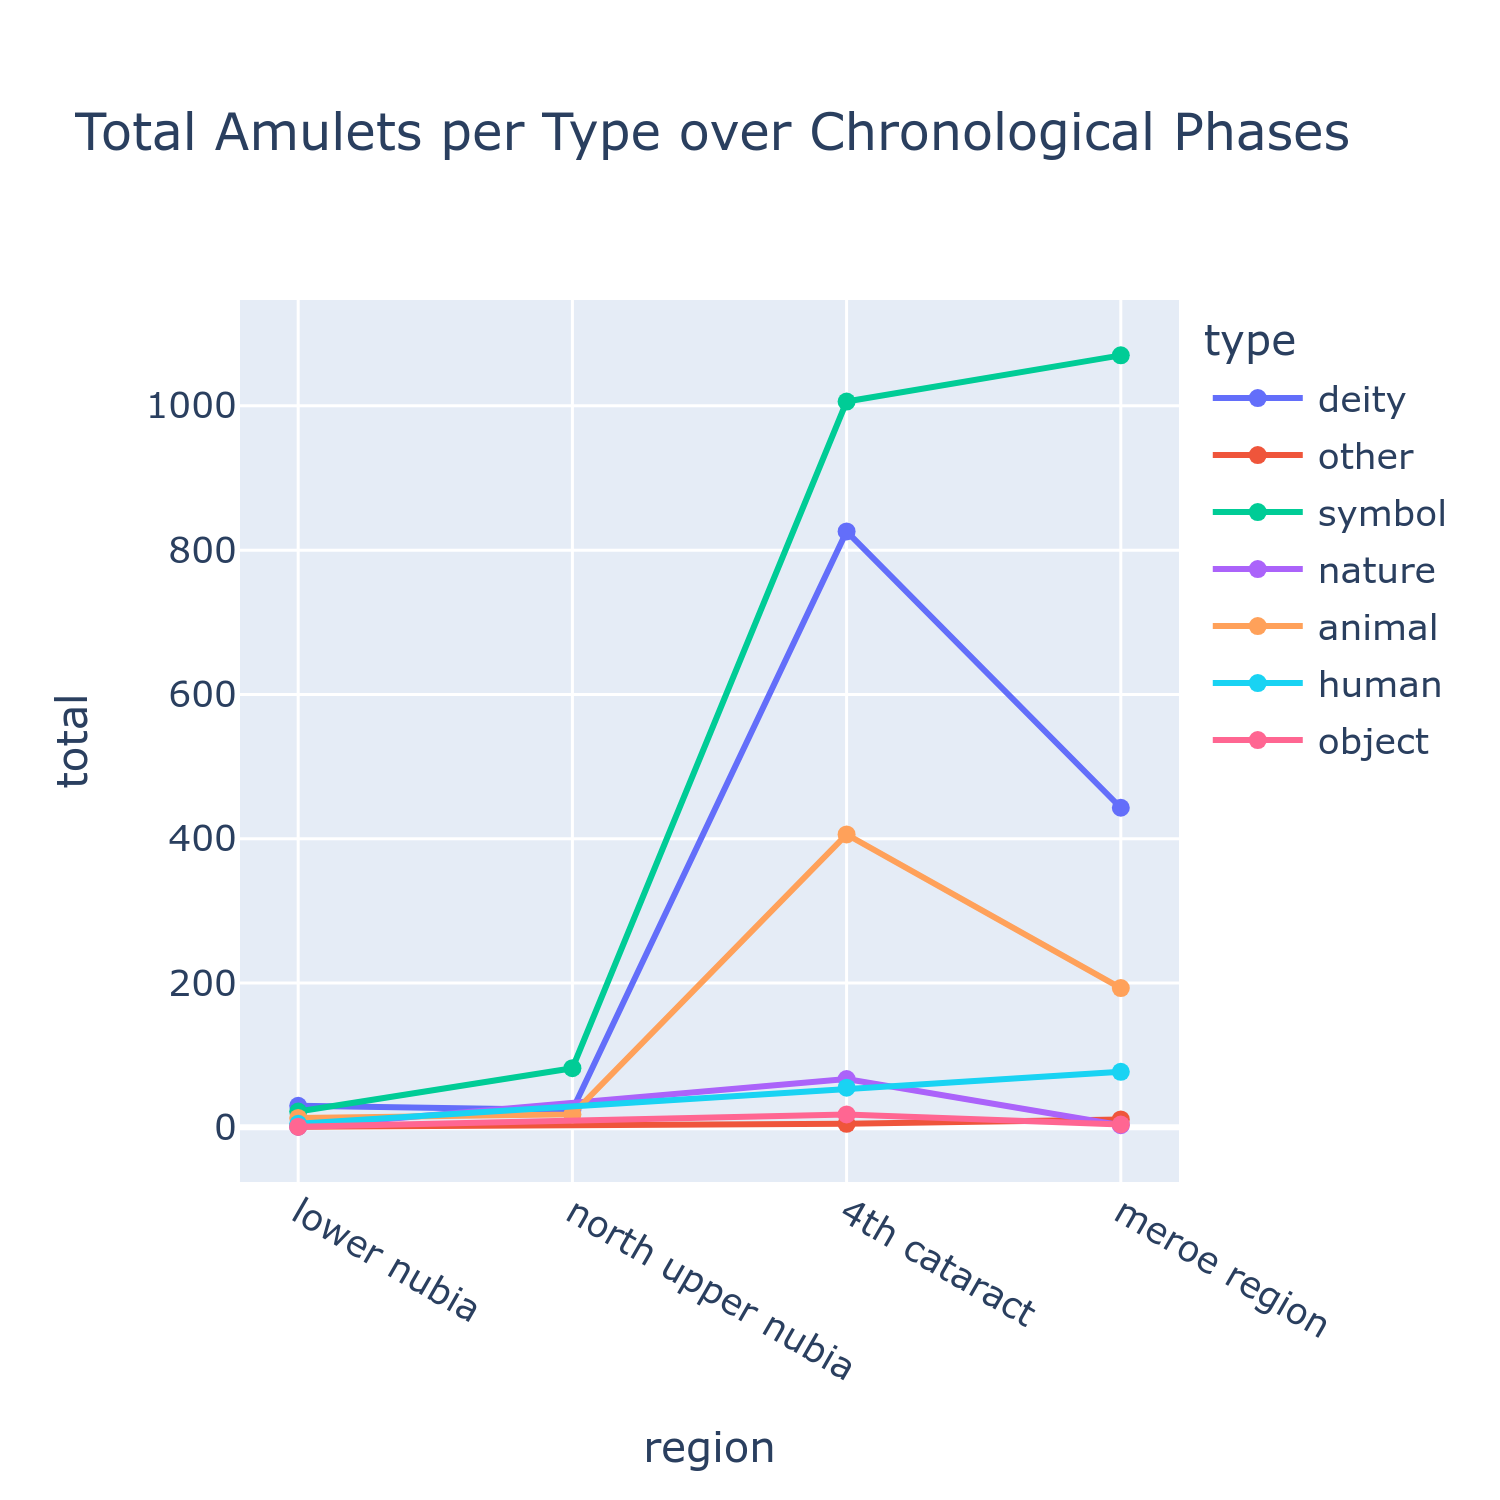
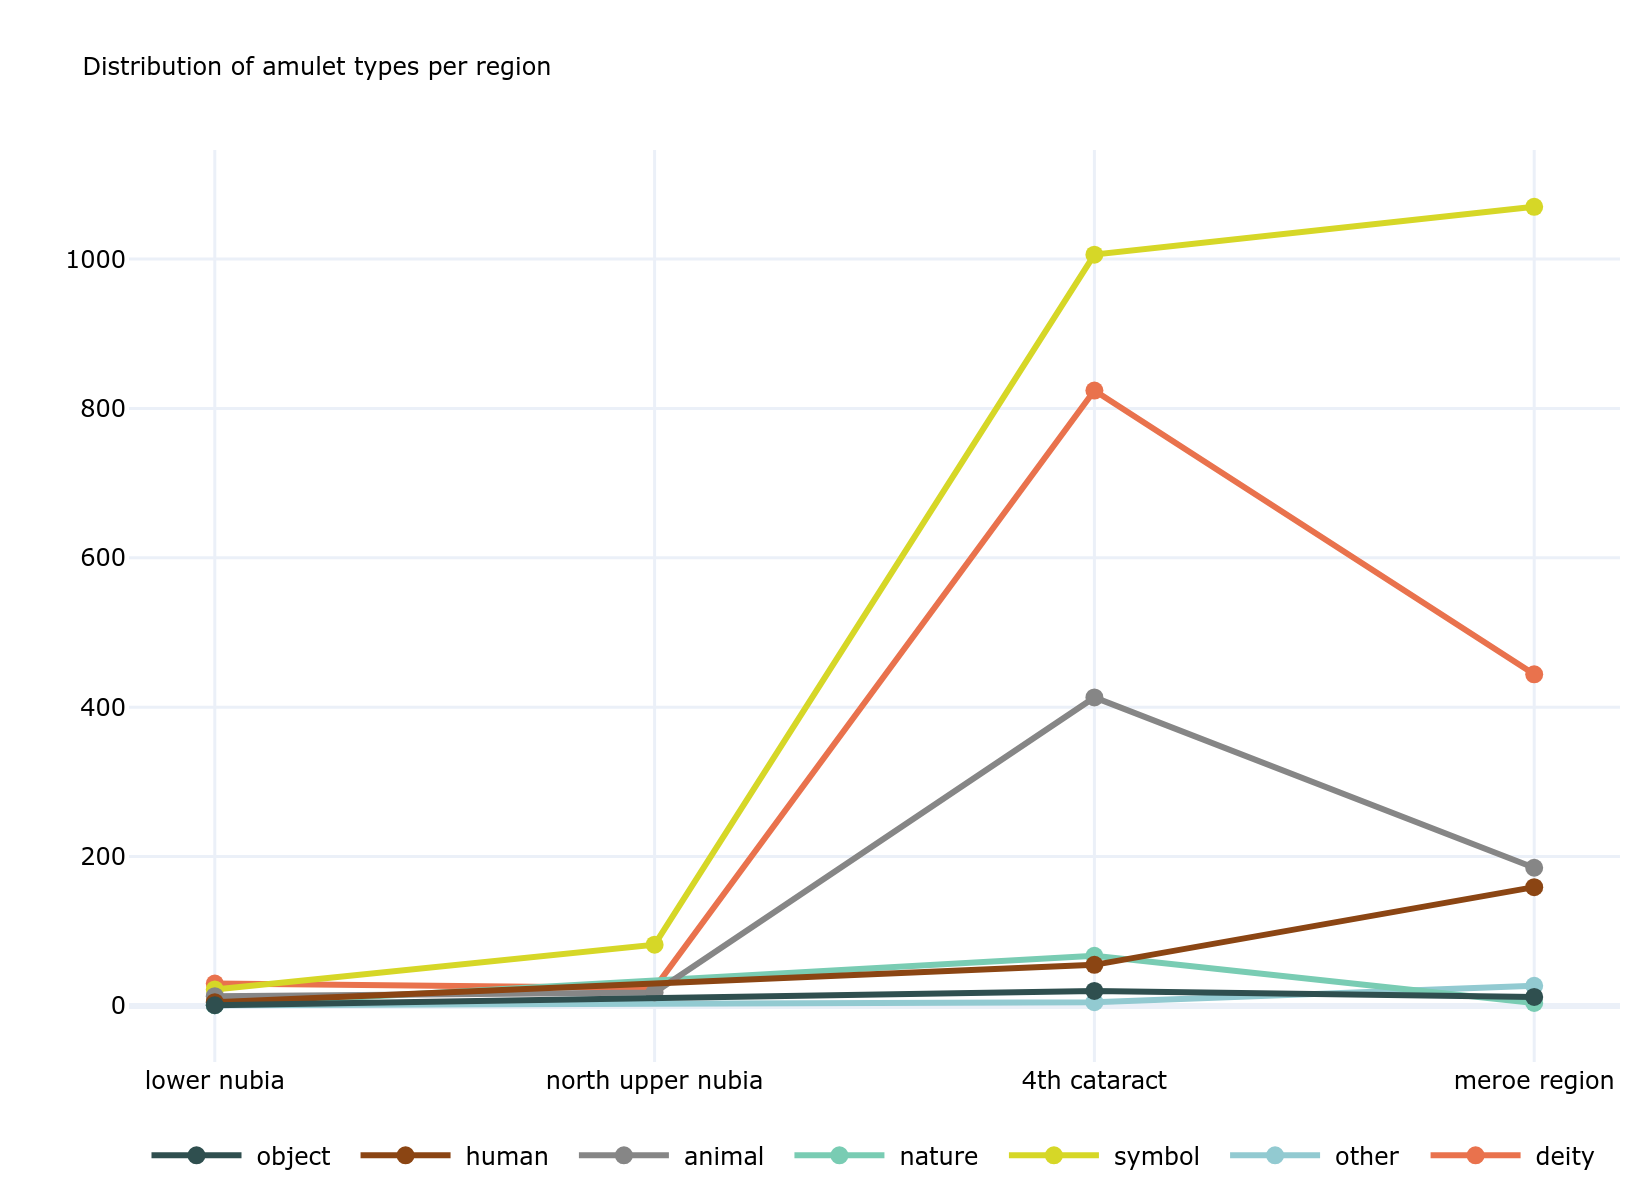
add regional queries

diff --git a/chapter5/region_avg.py b/chapter5/region_avg.py
@@ -7,18 +7,25 @@ import plotly.graph_objects as go
 engine = create_engine('mysql+pymysql://victoria:amulets123@localhost:3306/phd_v5')
 
 query = """
-select 
+SELECT 
     region,
-    type,
-    count(amulet_id) as total
-from burials b
-join amulets a on a.burial_id = b.burial_id
-join sites s on s.site_id = b.site_id
-where dating = 'napatan' and b.site_id in (4,5,6,7,8,9,10) and social_group = 'non-elite'
-group by 1,2
+    temp,
+    COUNT(DISTINCT b.burial_id) as tomb_count,
+    COUNT(amulet_id) as total_amulets,
+    ROUND(COUNT(amulet_id) * 1.0 / COUNT(DISTINCT b.burial_id), 0) as avg_amulets_per_tomb
+FROM burials b
+JOIN amulets a ON a.burial_id = b.burial_id
+JOIN sites s ON s.site_id = b.site_id
+WHERE dating = 'napatan' 
+    AND b.site_id IN (4,5,6,7,8,9,10) 
+    AND social_group = 'non-elite'
+GROUP BY 1,2
 """
 
 df = pd.read_sql(query, engine)
+
+custom_colors = ['#C0C0C0']
+
 
 region_order = ["lower nubia", "north upper nubia", "4th cataract", "meroe region"]
 
@@ -26,26 +33,23 @@ df['region'] = pd.Categorical(df['region'], categories=region_order, ordered=Tru
 
 df = df.sort_values('region')
 
-custom_colors = ['#e9724d', '#92cad1', '#d6d727', '#79ccb3', '#868686',
-                 '#8b4513', '#2f4f4f', '#ff6b4a', '#20b2aa', '#daa520',
-                 '#cd5c5c', '#4682b4', '#e8ea7a', '#98fb98', '#696969']
-
-fig = px.line(
+fig = px.bar(
     df,
     x='region',
-    y='total',
-    color='type',
-    markers=True,
-    title='Distribution of amulet types per region',
-    template="plotly_white",
-    color_discrete_sequence=custom_colors
+    y='avg_amulets_per_tomb',
+    color='temp',
+    barmode='stack',
+    text='avg_amulets_per_tomb',
+    title='Average number of amulets per tomb by region and phase',
+    color_discrete_sequence=custom_colors,
+    template="plotly_white"
 )
 
 fig.update_layout( 
     legend=dict(
         orientation="h",
         yanchor="bottom",
-        y=-0.15,
+        y=-0.10,
         xanchor="center",
         x=0.50,
         traceorder='reversed'),
@@ -62,8 +66,8 @@ fig.update_layout(
     title_font=dict(size=8)
 )
 
-fig.update_traces(textposition='top center', textfont_size=6)
+fig.update_traces(textposition='outside', textfont_size=7)
 fig.update_xaxes(title_text='')
 fig.update_yaxes(title_text='', matches=None)
 
-pio.write_image(fig, 'images/chapter5/region_type.png',scale=3, width=550, height=400)
+pio.write_image(fig, 'images/chapter5/region_avg.png',scale=3, width=400, height=300)

diff --git a/chapter5/region_mat.py b/chapter5/region_mat.py
@@ -9,12 +9,12 @@ engine = create_engine('mysql+pymysql://victoria:amulets123@localhost:3306/phd_v
 query = """
 select 
     region,
-    type,
+    material,
     count(amulet_id) as total
 from burials b
 join amulets a on a.burial_id = b.burial_id
 join sites s on s.site_id = b.site_id
-where dating = 'napatan' and b.site_id in (4,5,6,7,8,9,10) and social_group = 'non-elite'
+where dating = 'napatan' and b.site_id in (4,5,6,7,8,9,10) and social_group = 'non-elite' and material != 'faience'
 group by 1,2
 """
 
@@ -26,29 +26,28 @@ df['region'] = pd.Categorical(df['region'], categories=region_order, ordered=Tru
 
 df = df.sort_values('region')
 
-custom_colors = ['#e9724d', '#92cad1', '#d6d727', '#79ccb3', '#868686',
-                 '#8b4513', '#2f4f4f', '#ff6b4a', '#20b2aa', '#daa520',
-                 '#cd5c5c', '#4682b4', '#e8ea7a', '#98fb98', '#696969']
+custom_colors = ['#e9724d', '#92cad1', '#d6d727', '#79ccb3', '#868686']
 
-fig = px.line(
+fig = px.bar(
     df,
-    x='region',
+    x='material',
     y='total',
-    color='type',
-    markers=True,
+    text='total',
+    color='region',
+    barmode='stack',
     title='Distribution of amulet types per region',
     template="plotly_white",
     color_discrete_sequence=custom_colors
 )
 
-fig.update_layout( 
+fig.update_layout(xaxis={'categoryorder': 'total descending'},
     legend=dict(
         orientation="h",
         yanchor="bottom",
-        y=-0.15,
+        y=-0.25,
         xanchor="center",
-        x=0.50,
-        traceorder='reversed'),
+        x=0.50),
+        #traceorder='reversed'),
     font=dict(
         family="Verdana, sans-serif",
         color='black',
@@ -62,8 +61,8 @@ fig.update_layout(
     title_font=dict(size=8)
 )
 
-fig.update_traces(textposition='top center', textfont_size=6)
+fig.update_traces(textposition='auto', textfont_size=5)
 fig.update_xaxes(title_text='')
 fig.update_yaxes(title_text='', matches=None)
 
-pio.write_image(fig, 'images/chapter5/region_type.png',scale=3, width=550, height=400)
+pio.write_image(fig, 'images/chapter5/region_mat.png',scale=3, width=550, height=500)

diff --git a/chapter5/region_udjat.py b/chapter5/region_udjat.py
@@ -9,16 +9,20 @@ engine = create_engine('mysql+pymysql://victoria:amulets123@localhost:3306/phd_v
 query = """
 select 
     region,
-    type,
+    form,
     count(amulet_id) as total
 from burials b
 join amulets a on a.burial_id = b.burial_id
 join sites s on s.site_id = b.site_id
-where dating = 'napatan' and b.site_id in (4,5,6,7,8,9,10) and social_group = 'non-elite'
+where dating = 'napatan' and b.site_id in (4,5,6,7,8,9,10) and social_group = 'non-elite' and form = 'udjat'
 group by 1,2
 """
 
 df = pd.read_sql(query, engine)
+
+custom_colors = ['#e9724d', '#92cad1', '#d6d727', '#79ccb3', '#868686',
+                 '#8b4513', '#2f4f4f', '#ff6b4a', '#20b2aa', '#daa520',
+                 '#cd5c5c', '#4682b4', '#e8ea7a', '#98fb98', '#696969']
 
 region_order = ["lower nubia", "north upper nubia", "4th cataract", "meroe region"]
 
@@ -26,26 +30,22 @@ df['region'] = pd.Categorical(df['region'], categories=region_order, ordered=Tru
 
 df = df.sort_values('region')
 
-custom_colors = ['#e9724d', '#92cad1', '#d6d727', '#79ccb3', '#868686',
-                 '#8b4513', '#2f4f4f', '#ff6b4a', '#20b2aa', '#daa520',
-                 '#cd5c5c', '#4682b4', '#e8ea7a', '#98fb98', '#696969']
-
 fig = px.line(
     df,
     x='region',
     y='total',
-    color='type',
+    text='total',
+    color='form',
     markers=True,
-    title='Distribution of amulet types per region',
-    template="plotly_white",
-    color_discrete_sequence=custom_colors
+    title='Distribution of udjat amulets per region',
+    template="plotly_white"
 )
 
 fig.update_layout( 
     legend=dict(
         orientation="h",
         yanchor="bottom",
-        y=-0.15,
+        y=-0.25,
         xanchor="center",
         x=0.50,
         traceorder='reversed'),
@@ -66,4 +66,4 @@ fig.update_traces(textposition='top center', textfont_size=6)
 fig.update_xaxes(title_text='')
 fig.update_yaxes(title_text='', matches=None)
 
-pio.write_image(fig, 'images/chapter5/region_type.png',scale=3, width=550, height=400)
+pio.write_image(fig, 'images/chapter5/region_udjat.png',scale=3, width=350, height=250)

diff --git a/chapter5/25-EN_amulets_plaques.py b/chapter5/25-EN_amulets_plaques.py
@@ -1,0 +1,69 @@
+import pandas as pd
+import plotly.express as px
+from sqlalchemy import create_engine
+import plotly.io as pio
+
+engine = create_engine('mysql+pymysql://victoria:amulets123@localhost:3306/phd_v5')
+
+query = """
+select 
+	site_name,
+    CASE 
+        WHEN plaque = 1 THEN 'yes'
+        WHEN plaque = 0 THEN 'no'
+    END AS plaque_label,
+    count(amulet_id) as total
+from burials b
+join sites s on s.site_id = b.site_id
+join amulets a on a.burial_id = b.burial_id
+where dating = 'napatan' 
+    and b.site_id in (4,5,6,7,8,9,10) 
+    and material IS NOT NULL
+    and social_group = 'non-elite'
+    and temp = '25th-EN'
+    and plaque = 1
+group by 1,2
+"""
+
+df = pd.read_sql(query, engine)
+
+custom_colors = ['#e9724d', '#92cad1', '#d6d727', '#79ccb3', '#868686']
+
+fig = px.bar(
+    df,
+    x="plaque_label",
+    y="total",
+    color="site_name",
+    text="total",
+    barmode='stack',
+    title="Distribution of 25th Dynasty-Early Napatan non-elite plaque amulets",
+    color_discrete_sequence=custom_colors,
+    template="plotly_white"
+)
+
+fig.update_layout(xaxis=dict(categoryorder='total descending', automargin=True, title_standoff=0), 
+    legend=dict(
+        #orientation="h",
+        yanchor="bottom",
+        y=0.40,
+        xanchor="center",
+        x=0.80,
+        traceorder='reversed'),
+    font=dict(
+        family="Verdana, sans-serif",
+        color='black',
+        size=8),
+    legend_title_text='',
+    #yaxis=dict(
+        #tickmode='linear',
+        #dtick=1),
+    margin=dict(l=0, r=0, t=20, b=0),
+    autosize=True,
+    title_font=dict(size=8)
+)
+
+fig.update_traces(textposition='outside', textfont_size=6)
+fig.update_xaxes(title_text='')
+fig.update_yaxes(title_text='')
+
+pio.write_image(fig, 'images/chapter5/25-EN_amulets_plaques.png',scale=3, width=550, height=300)

diff --git a/chapter4/25_amulets_forms_deities.py b/chapter4/25_amulets_forms_deities.py
@@ -21,7 +21,6 @@ WITH expanded_forms AS (
         AND s.site_id IN (1)
         AND a.form IS NOT NULL
         AND a.type = 'deity'
-        AND a.form != 'animals'
 
     UNION ALL
 
@@ -39,7 +38,7 @@ WITH expanded_forms AS (
         AND s.site_id IN (1)
         AND a.form2 IS NOT NULL
         AND a.type = 'deity'
-        AND a.form2 != 'animals'
+        AND a.form2 != 'giraffe'
 
     UNION ALL
 
@@ -57,7 +56,7 @@ WITH expanded_forms AS (
         AND s.site_id IN (1)
         AND a.form3 IS NOT NULL
         AND a.type = 'deity'
-        AND a.form3 != 'animals'
+        AND a.form3 not in ('animals', 'tree')
 )
 SELECT 
     site_name,
@@ -116,4 +115,4 @@ fig.update_traces(textposition='outside', textfont_size=5)
 fig.update_xaxes(title_text='', matches=None, tickangle=45)
 fig.update_yaxes(title_text='')
 
-pio.write_image(fig, 'images/chapter4/25_amulets_forms_deities.png',scale=3, width=450, height=320)
+pio.write_image(fig, 'images/chapter4/25_amulets_forms_deities.png',scale=3, width=550, height=320)
